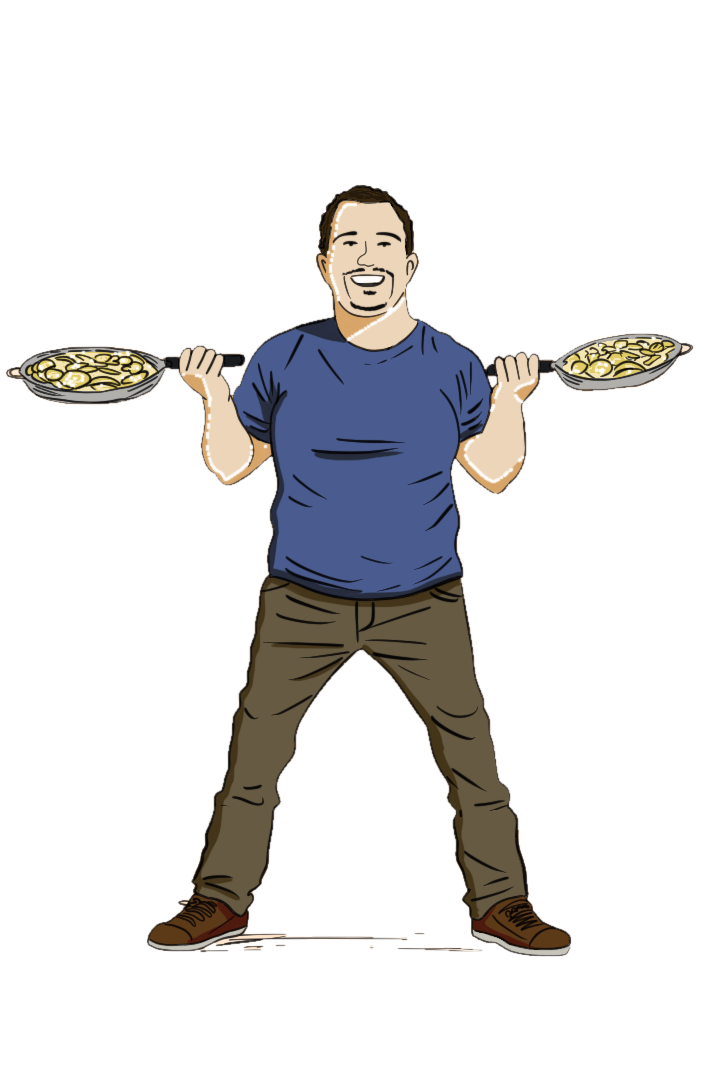
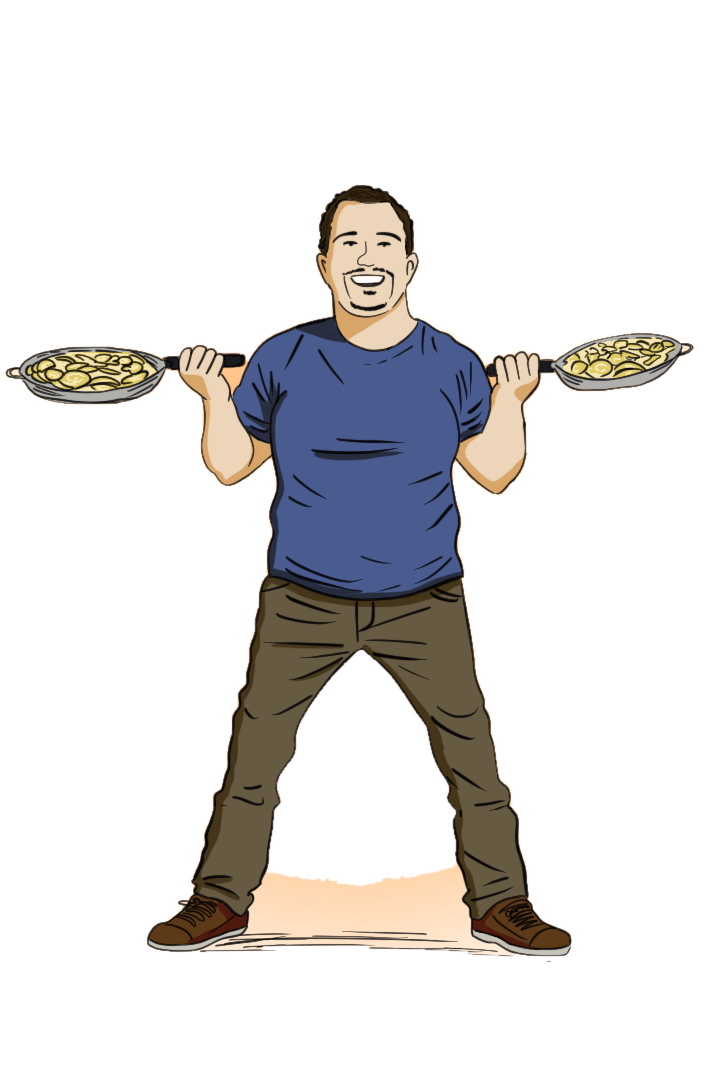
Fred en Bouffetout ; détourages Bouffetout refaits (peau préservée)
- detourer.py --fond-min : ne retire que les grandes zones de fond

diff --git a/src/data/characters.ts b/src/data/characters.ts
@@ -498,6 +498,12 @@ export const characters: Character[] = [
         bust: { cx: 43, cy: 55, zoom: 2 },
         cutout: 'images/personnages/fred/ludick-cutout.png',
       },
+      {
+        family: 'bouffetout',
+        image: 'images/personnages/fred/bouffetout-blanc.png',
+        bust: { cx: 54, cy: 34, zoom: 2 },
+        cutout: 'images/personnages/fred/bouffetout-cutout.png',
+      },
     ],
   },
   {

diff --git a/scripts/detourer.py b/scripts/detourer.py
@@ -14,6 +14,8 @@ Produit <nom>-cutout.png (fond transparent, recadré au personnage) et <nom>-ple
                 quand le dessin est coupé par ce bord (ex. voiture coupée à droite).
 --fond R,G,B  : couleur du fond en dégradé : retire aussi les zones de fond enfermées
                 (entre une hache et une botte…) qui s'en rapprochent.
+--fond-min N  : ne retire que les zones de fond d'au moins N pixels (protège les ombres
+                de peau peintes dans la même couleur que le fond).
 --trous N     : retire aussi les zones blanches enfermées de plus de N pixels
                 (ex. l'espace entre un bras et le corps). Désactivé par défaut pour
                 ne jamais effacer dents, yeux ou vêtements blancs.
@@ -44,6 +46,8 @@ def main():
     ap.add_argument("--bords", default="haut,bas,gauche,droite", help="bords d'où part le fond")
     ap.add_argument("--clair", type=int, default=140, help="luminosité minimale du fond")
     ap.add_argument("--fond", help="couleur R,G,B du fond (zones enfermées à retirer)")
+    ap.add_argument("--fond-min", type=int, default=0,
+                    help="taille mini (px) d'une zone de fond à retirer (ex. 2500 si la peau est ombrée de la même couleur)")
     ap.add_argument("--trous", type=int, default=0, help="taille mini (px) des zones blanches enfermées à retirer")
     args = ap.parse_args()
 
@@ -141,12 +145,29 @@ def main():
         bgc = tuple(int(v) for v in args.fond.split(","))
         bg_sat = max(bgc) - min(bgc)
         orig = im.load()
-        for x, y in best:
+
+        def like_bg(x, y):
             c = orig[x, y]
             # Même teinte ET saturation proche du fond : épargne la peau, plus terne
-            sat = max(c) - min(c)
-            if dist(c, bgc) < 75 and lum(c) > 150 and sat >= 0.75 * bg_sat:
-                mp[x, y] = 0
+            return mp[x, y] and dist(c, bgc) < 75 and lum(c) > 150 and max(c) - min(c) >= 0.75 * bg_sat
+
+        done = bytearray(W * H)
+        for sx, sy in best:
+            if done[sy * W + sx] or not like_bg(sx, sy):
+                continue
+            zone, q = [], deque([(sx, sy)])
+            done[sy * W + sx] = 1
+            while q:
+                x, y = q.popleft()
+                zone.append((x, y))
+                for nx, ny in ((x + 1, y), (x - 1, y), (x, y + 1), (x, y - 1)):
+                    if 0 <= nx < W and 0 <= ny < H and not done[ny * W + nx] and like_bg(nx, ny):
+                        done[ny * W + nx] = 1
+                        q.append((nx, ny))
+            # Seules les zones assez grandes sont du fond (les ombres de peau sont de fines bandes)
+            if len(zone) >= args.fond_min:
+                for x, y in zone:
+                    mp[x, y] = 0
     mask = mask.filter(ImageFilter.MinFilter(3)).filter(ImageFilter.GaussianBlur(0.7))
 
     out = im.convert("RGBA")
